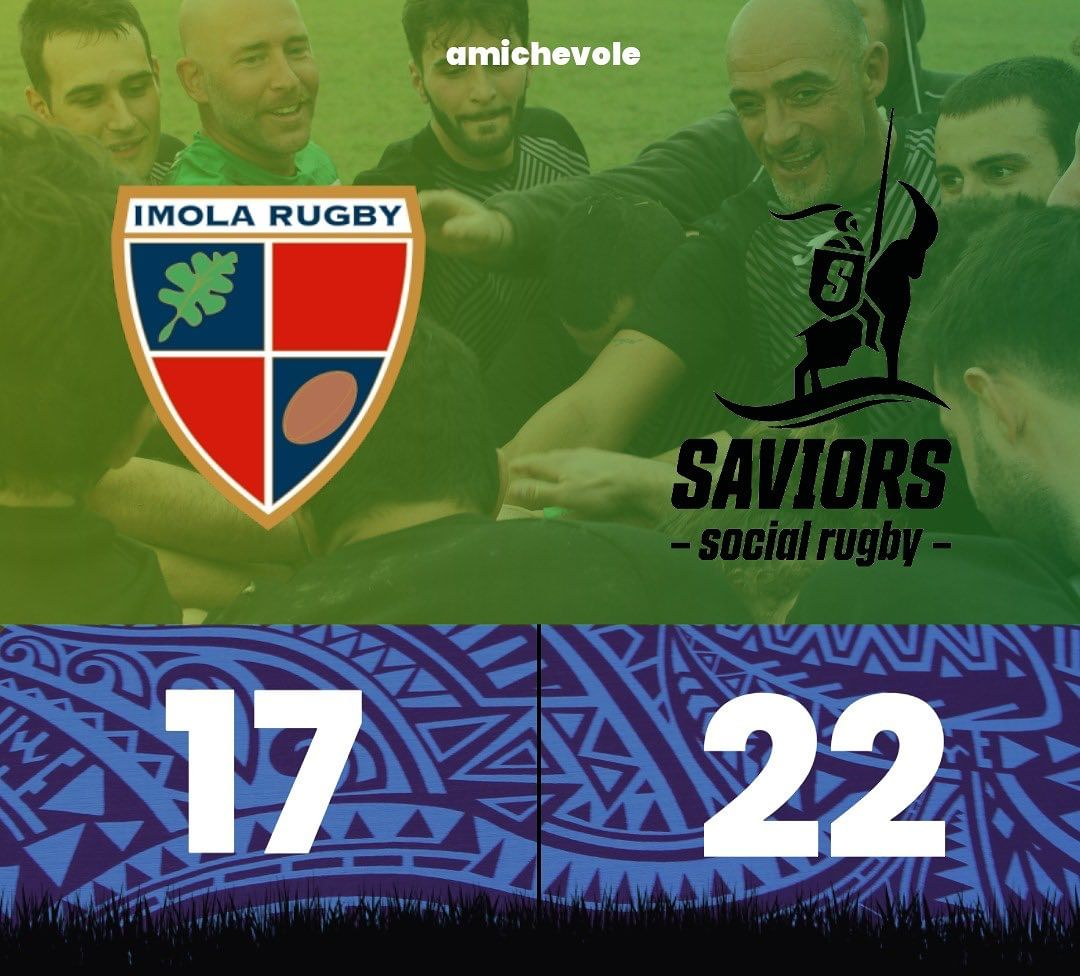
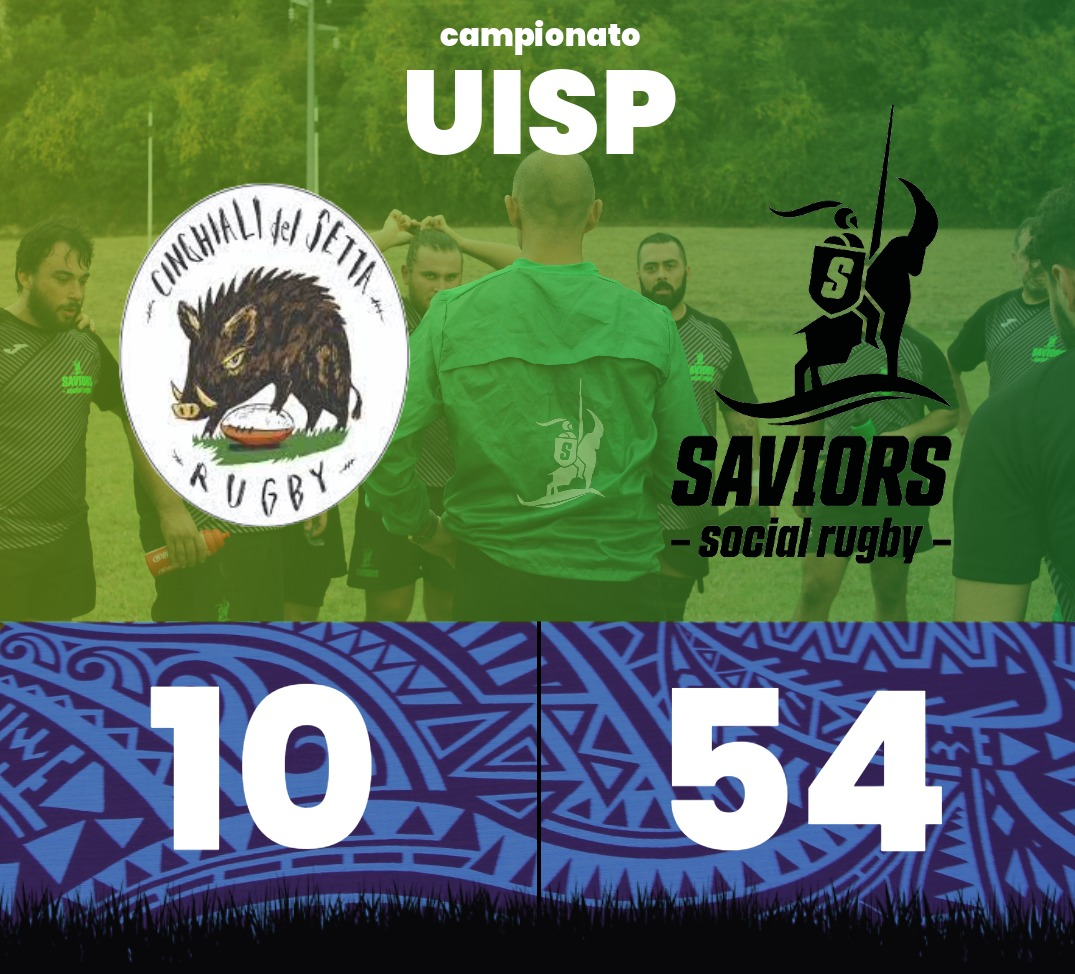
update: last result; next match

diff --git a/content/posts/last-match/index.md b/content/posts/last-match/index.md
@@ -1,13 +1,13 @@
 ---
-title: Ultimo Match<br/>Imola vs Saviors (17 - 22)
-date: "2023-10-29"
+title: Ultimo Match<br/>Cinghiali vs Saviors (10 - 54)
+date: "2023-11-12"
 sharingLinks:
   - facebook
   - whatsapp
   - telegram
 tags:
   - Saviors
-  - Imola
+  - Cinghiali
 showDate: false
 showHeadingAnchors: false
 showHero: false
@@ -16,6 +16,8 @@ weight: 1
 
 ![](./featured.jpg)
 
-<!-- | Giornata  | Data       | Casa                         | Ospiti                | Orario | Indirizzo                        |
-| --------- | ---------- | ---------------------------- | --------------------- | ------ | -------------------------------- |
-| 2a Andata | 29/10/2023 | **Saviors Social Rugby ASD** | ASD Torelli Sudati RC | 14:30  | Via Roversano 2815 (FC) - Cesena | -->
+| Giornata  | Data       | Casa                      | Ospiti                       | Orario | Indirizzo                   |
+| --------- | ---------- | ------------------------- | ---------------------------- | ------ | --------------------------- |
+| 3a Andata | 12/11/2023 | Cinghiali del Setta Rugby | **Saviors Social Rugby ASD** | 14:30  | Via Romita, 2/7, 40128 (BO) |
+
+![](./team.jpg)

diff --git a/content/posts/next-match/index.md b/content/posts/next-match/index.md
@@ -1,13 +1,13 @@
 ---
-title: Prossimo Match<br/>Cinghiali vs Saviors
-date: "2023-11-04"
+title: Prossimo Match<br/>Putei Veci vs Saviors
+date: "2023-11-12"
 sharingLinks:
   - facebook
   - whatsapp
   - telegram
 tags:
   - Saviors
-  - Cinghiali
+  - Putei
 showDate: false
 showHeadingAnchors: false
 showHero: false
@@ -16,6 +16,8 @@ weight: 1
 
 ![](./featured.jpg)
 
-| Giornata  | Data       | Casa                      | Ospiti                       | Orario | Indirizzo                   |
-| --------- | ---------- | ------------------------- | ---------------------------- | ------ | --------------------------- |
-| 3a Andata | 12/11/2023 | Cinghiali del Setta Rugby | **Saviors Social Rugby ASD** | 14:30  | Via Romita, 2/7, 40128 (BO) |
+| Giornata  | Data       | Casa                         | Ospiti           | Orario | Indirizzo               |
+| --------- | ---------- | ---------------------------- | ---------------- | ------ | ----------------------- |
+| 5a Andata | 17/12/2023 | **Saviors Social Rugby ASD** | Putei Veci Rugby | 14:30  | Via Roversano 2815 (FC) |
+
+![](./team.jpg)
